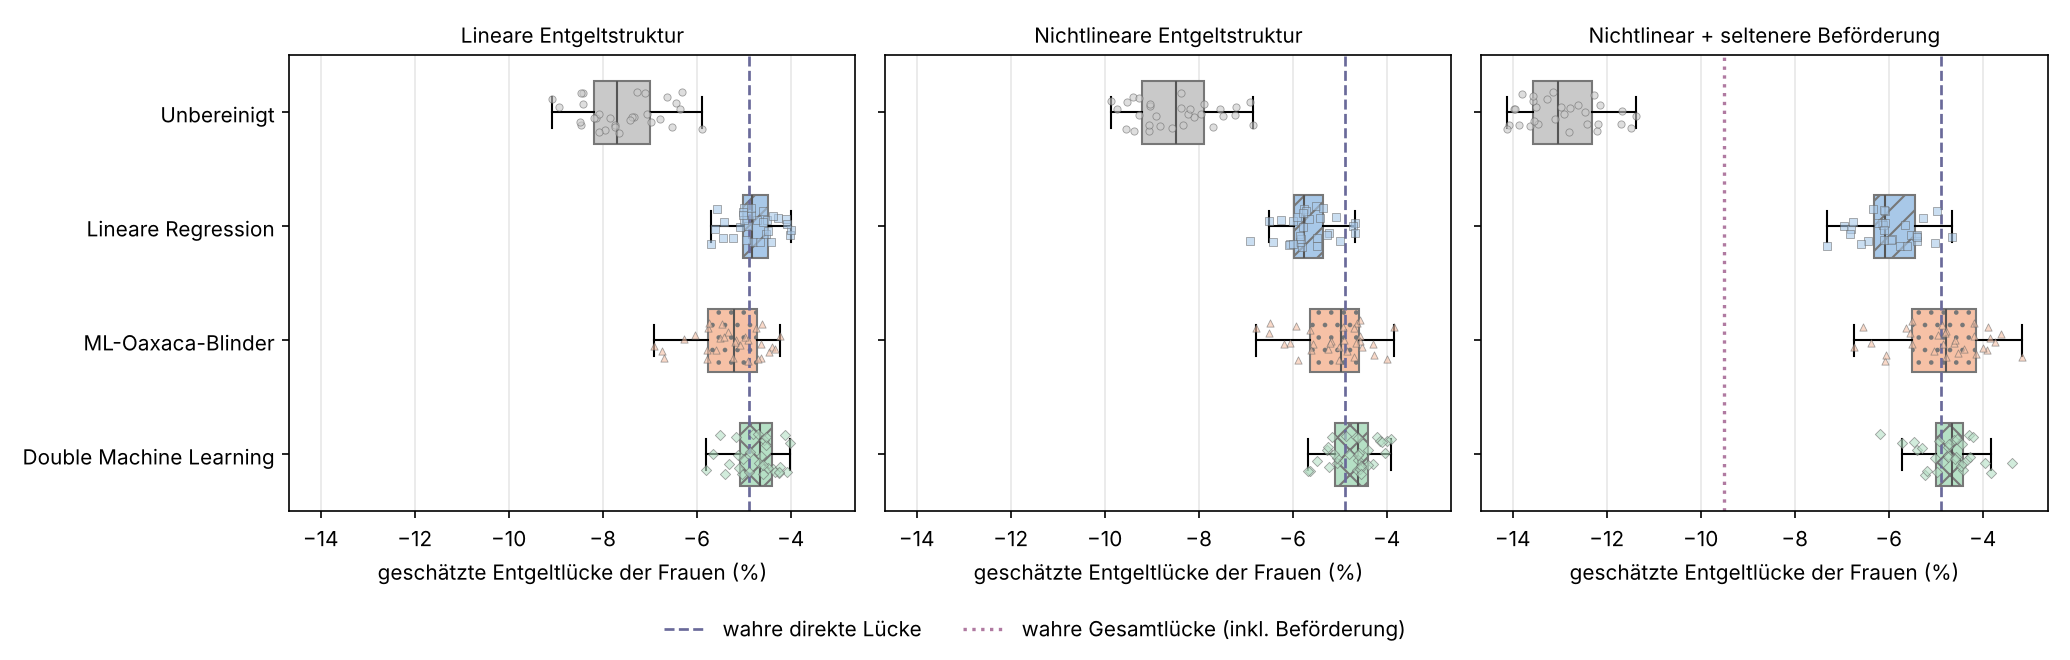
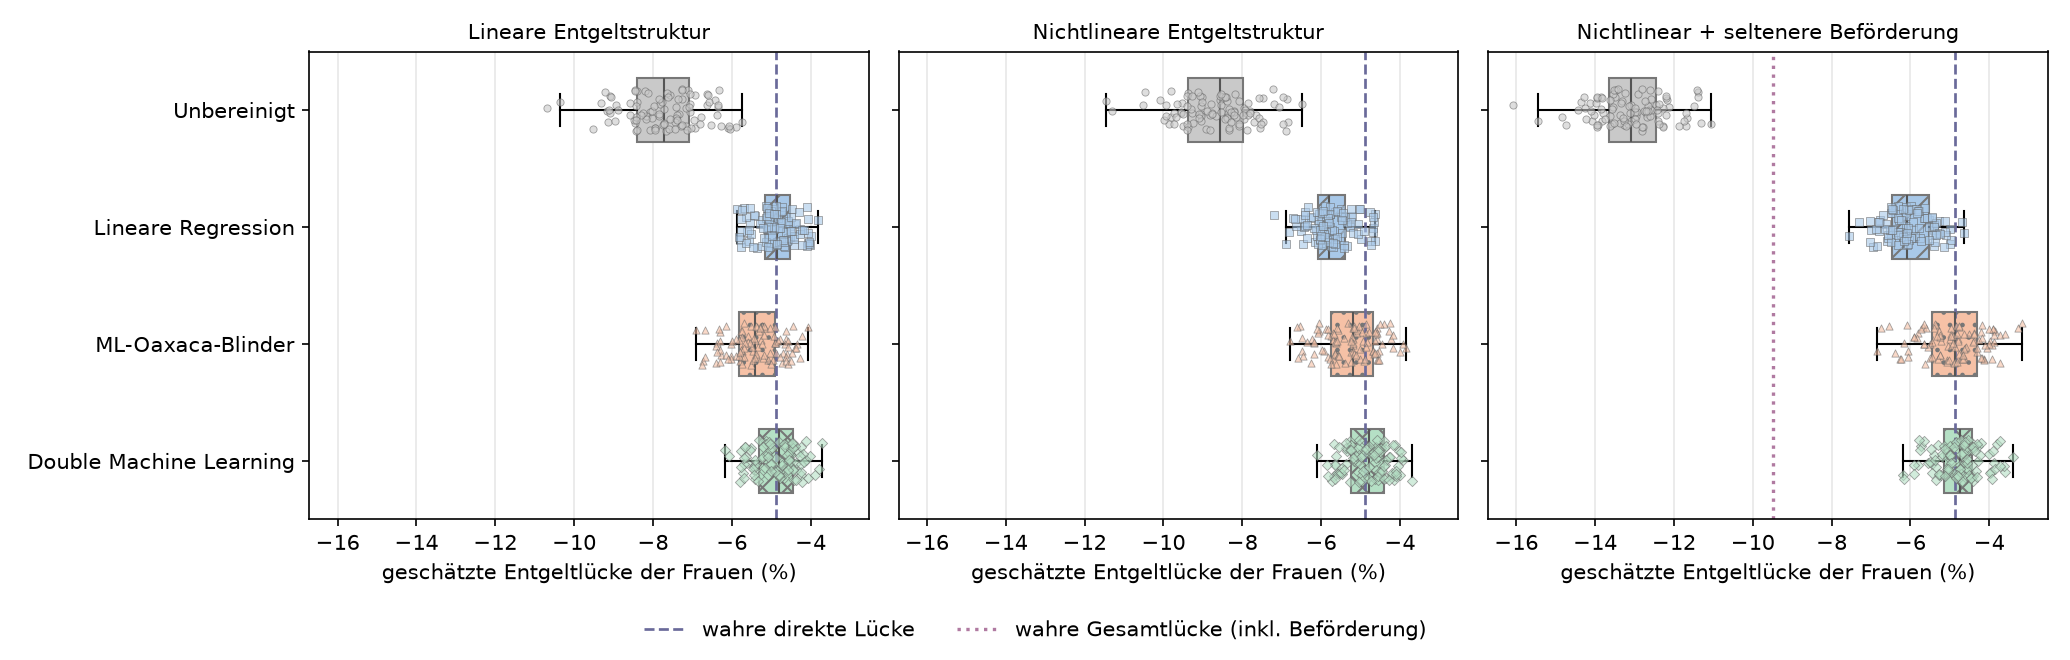
Zip-Plot der Konfidenzintervalle

diff --git a/src/paygap/plots.py b/src/paygap/plots.py
@@ -71,3 +71,61 @@ def plot_study(runs, path) -> None:
     fig.tight_layout(rect=(0, 0.08, 1, 1))
     fig.savefig(path, dpi=150)
     plt.close(fig)
+
+
+ZIP_COVERED = "#C5CCD6"      # Intervall enthaelt die wahre Luecke
+ZIP_MISSED = "#D9737A"       # Intervall verfehlt sie
+
+
+def plot_zip(runs, path, methods=("ols", "ml_ob", "dml")) -> None:
+    """Zip-Plot (Morris, White & Crowther 2019): alle 95-%-Intervalle je Methode und Szenario.
+
+    Die Intervalle sind von unten nach oben nach |Schaetzung - wahre Luecke| / Standardfehler
+    sortiert. Bei korrekter Abdeckung verfehlen nur die obersten 5 % die wahre Luecke.
+    Der Standardfehler wird aus der Intervallbreite zurueckgerechnet.
+    """
+    from matplotlib.lines import Line2D
+
+    scenarios = list(dict.fromkeys(runs["scenario"]))
+    methods = [m for m in methods if m in set(runs["method"])]
+    fig, axes = plt.subplots(len(methods), len(scenarios),
+                             figsize=(4.4 * len(scenarios), 3.3 * len(methods)),
+                             sharex=True, sharey=True, squeeze=False)
+    for j, s in enumerate(scenarios):
+        for i, m in enumerate(methods):
+            ax = axes[i, j]
+            d = runs[(runs["scenario"] == s) & (runs["method"] == m)]
+            se = (d["hi"] - d["lo"]) / (2 * 1.959963984540054)
+            order = np.argsort(np.abs((d["est"] - d["true_direct"]) / se).to_numpy(),
+                               kind="stable")
+            d = d.iloc[order]
+            y = 100 * (np.arange(len(d)) + 0.5) / len(d)
+            truth = d["true_direct"].to_numpy()
+            cov = ((d["lo"] <= truth) & (truth <= d["hi"])).to_numpy()
+            lo, hi, est = to_percent(d["lo"]), to_percent(d["hi"]), to_percent(d["est"])
+            ax.hlines(y[cov], lo[cov], hi[cov], color=ZIP_COVERED, lw=2.2)
+            ax.hlines(y[~cov], lo[~cov], hi[~cov], color=ZIP_MISSED, lw=2.2)
+            ax.scatter(est, y, s=6, color="#555555", marker=METHOD_STYLES[m]["marker"],
+                       zorder=3)
+            ax.axvline(to_percent(truth[0]), color="#6A6A9A", ls="--", lw=1.2)
+            ax.axhline(95, color="#888888", ls=":", lw=1.2)
+            ax.text(0.98, 0.04, f"Abdeckung {cov.mean():.0%}", transform=ax.transAxes,
+                    ha="right", fontsize=9, bbox={"fc": "white", "ec": "none", "alpha": 0.8})
+            ax.set_ylim(0, 100)
+            ax.grid(axis="x", alpha=0.3)
+            if i == 0:
+                ax.set_title(SCENARIO_LABELS.get(s, s), fontsize=10)
+            if j == 0:
+                ax.set_ylabel(f"{METHOD_LABELS[m]}\n\nRang nach |Abweichung| / SE (%)")
+            if i == len(methods) - 1:
+                ax.set_xlabel("95-%-Intervall der Entgeltlücke (%)")
+    handles = [
+        Line2D([], [], color=ZIP_COVERED, lw=2.2, label="Intervall enthält wahre Lücke"),
+        Line2D([], [], color=ZIP_MISSED, lw=2.2, label="Intervall verfehlt wahre Lücke"),
+        Line2D([], [], color="#6A6A9A", ls="--", label="wahre direkte Lücke"),
+        Line2D([], [], color="#888888", ls=":", label="95-%-Marke"),
+    ]
+    fig.legend(handles=handles, loc="lower center", ncol=4, frameon=False)
+    fig.tight_layout(rect=(0, 0.04, 1, 1))
+    fig.savefig(path, dpi=140)
+    plt.close(fig)

diff --git a/scripts/run_study.py b/scripts/run_study.py
@@ -12,7 +12,7 @@ import time
 from pathlib import Path
 
 from paygap.config import load_config
-from paygap.plots import METHOD_LABELS, plot_study, to_percent
+from paygap.plots import METHOD_LABELS, plot_study, plot_zip, to_percent
 from paygap.study import run_study, summarize
 
 
@@ -40,6 +40,7 @@ def main() -> None:
     runs.to_csv(out / "study_runs.csv", index=False)
     summary.to_csv(out / "study_summary.csv", index=False)
     plot_study(runs, out / "figures" / "study.png")
+    plot_zip(runs, out / "figures" / "zip_plot.png")
     (out / "run_info.json").write_text(json.dumps(
         {"config": cfg, "seconds": round(time.time() - t0)}, indent=2), encoding="utf-8")
 

diff --git a/tests/test_study.py b/tests/test_study.py
@@ -1,6 +1,6 @@
 import pandas as pd
 
-from paygap.plots import plot_study, to_percent
+from paygap.plots import plot_study, plot_zip, to_percent
 from paygap.study import run_study, summarize
 
 
@@ -23,6 +23,8 @@ def test_small_study_and_plot(tmp_path):
     assert set(summarize(runs)["method"]) == {"raw", "ols", "ml_ob", "dml"}
     plot_study(runs, tmp_path / "study.png")
     assert (tmp_path / "study.png").stat().st_size > 0
+    plot_zip(runs, tmp_path / "zip.png")
+    assert (tmp_path / "zip.png").stat().st_size > 0
 
 
 def test_to_percent():

diff --git a/README.md b/README.md
@@ -16,29 +16,56 @@ Methode danebenliegt.
 ## Kernergebnis
 
 Bei nichtlinearer Entgeltstruktur überschätzt die übliche lineare Regression die Lücke um knapp
-einen Prozentpunkt, und ihr 95-%-Intervall enthält den wahren Wert nur in 80 % der Fälle.
-**Double Machine Learning trifft die Lücke in allen Szenarien bis auf 0,2 Prozentpunkte** und hält
-die nominelle Intervallabdeckung ein. Keine Methode erkennt aber Benachteiligung, die über die
+einen Prozentpunkt, und ihr 95-%-Intervall enthält den wahren Wert nur in 72 % der Fälle.
+**Double Machine Learning trifft die Lücke in allen Szenarien bis auf 0,1 Prozentpunkte** und hält
+die nominelle Intervallabdeckung von 95 % ein. Keine Methode erkennt aber Benachteiligung, die über die
 herausgerechneten Merkmale selbst wirkt (hier: seltenere Beförderung).
 
 ![Simulationsstudie](docs/figures/study.png)
 
+*Jeder Punkt ist die Schätzung aus einem simulierten Datensatz. Die Box umfasst die mittleren 50 %
+der Schätzungen, der Strich darin ist der Median, die Fehlerbalken reichen bis zur äußersten
+Schätzung innerhalb des 1,5-Fachen der Boxbreite. Die Abbildung zeigt Verzerrung und Streuung,
+nicht die Konfidenzintervalle.*
+
 | Szenario | Methode | Schätzung | Verzerrung | Abdeckung 95-%-Intervall |
 |---|---|---:|---:|---:|
-| linear | Lineare Regression | −4,8 % | +0,1 pp | 100 % |
-| | ML-Oaxaca-Blinder | −5,3 % | −0,4 pp | 63 % |
-| | Double Machine Learning | −4,8 % | +0,1 pp | 100 % |
-| nichtlinear | Lineare Regression | −5,7 % | −0,8 pp | 80 % |
-| | ML-Oaxaca-Blinder | −5,1 % | −0,3 pp | 60 % |
-| | Double Machine Learning | −4,7 % | +0,2 pp | 100 % |
-| + seltenere Beförderung | Lineare Regression | −6,0 % | −1,1 pp | 57 % |
-| | ML-Oaxaca-Blinder | −4,8 % | 0,0 pp | 40 % |
-| | Double Machine Learning | −4,7 % | +0,2 pp | 93 % |
+| linear | Lineare Regression | −4,9 % | 0,0 pp | 100 % |
+| | ML-Oaxaca-Blinder | −5,4 % | −0,5 pp | 56 % |
+| | Double Machine Learning | −4,9 % | 0,0 pp | 97 % |
+| nichtlinear | Lineare Regression | −5,8 % | −0,9 pp | 72 % |
+| | ML-Oaxaca-Blinder | −5,3 % | −0,4 pp | 53 % |
+| | Double Machine Learning | −4,8 % | 0,0 pp | 98 % |
+| + seltenere Beförderung | Lineare Regression | −6,0 % | −1,1 pp | 53 % |
+| | ML-Oaxaca-Blinder | −4,9 % | 0,0 pp | 54 % |
+| | Double Machine Learning | −4,8 % | +0,1 pp | 94 % |
 
 Wahre direkte Lücke −4,9 %; im dritten Szenario beträgt die Gesamtlücke einschließlich seltenerer
-Beförderung −9,6 %. Unbereinigt liegen die Werte bei −7,6 %, −8,5 % und −13,0 %. 3000 Beschäftigte
-je simuliertem Unternehmen, **30 Wiederholungen** je Szenario (vorläufig; die Abdeckungswerte sind
-daher auf etwa ±8 Prozentpunkte genau).
+Beförderung −9,5 %. Unbereinigt liegen die Werte bei −7,7 %, −8,7 % und −13,1 %. 3000 Beschäftigte
+je simuliertem Unternehmen, 100 Wiederholungen je Szenario; die Abdeckungswerte sind damit auf etwa
+±4 Prozentpunkte genau. Die RMSE von Double Machine Learning liegt in allen Szenarien bei
+0,6 Log-Punkten × 100, die der linearen Regression steigt von 0,5 auf 1,4.
+
+### Stimmen die Konfidenzintervalle?
+
+![Zip-Plot](docs/figures/zip_plot.png)
+
+*Zip-Plot (Morris, White & Crowther, 2019): jede Linie ist das 95-%-Intervall aus einem simulierten
+Datensatz, der Punkt die Schätzung. Von unten nach oben sind die Intervalle nach dem Abstand der
+Schätzung zur wahren Lücke sortiert, gemessen in Standardfehlern. Rot sind Intervalle, die die wahre
+Lücke verfehlen. Bei korrekten Intervallen liegt Rot nur oberhalb der 95-%-Marke, gleichmäßig auf
+beiden Seiten.*
+
+Die beiden schwächeren Methoden scheitern aus verschiedenen Gründen:
+
+- **Lineare Regression:** Bei nichtlinearer Entgeltstruktur sind alle Intervalle nach links
+  verschoben, und alle verfehlenden Intervalle liegen links der wahren Lücke. Die Intervallbreite
+  stimmt, die Schätzung ist verzerrt, weil die Modellannahme nicht passt.
+- **ML-Oaxaca-Blinder:** Rot beginnt schon bei etwa 55 %, weil die Intervalle etwa halb so breit
+  sind, wie die tatsächliche Streuung verlangt. In den ersten beiden Szenarien kommt eine leichte
+  Verschiebung nach links hinzu; im dritten liegt die Schätzung im Mittel richtig, und Rot verteilt
+  sich auf beide Seiten.
+- **Double Machine Learning:** Rot erscheint erst oberhalb der 95-%-Marke und auf beiden Seiten.
 
 ## Vorgehen
 
@@ -62,7 +89,7 @@ daher auf etwa ±8 Prozentpunkte genau).
    - **Double Machine Learning:** Zwei Gradient-Boosting-Modelle sagen Entgelt und Geschlecht aus
      den Merkmalen vorher (mit 5-fachem Cross-Fitting). Die Lücke ergibt sich aus der Regression der
      Restgrößen aufeinander und hat ein gültiges Konfidenzintervall, obwohl die Modelle flexibel sind
-     (Chernozhukov et al., 2018).
+     (Chernozhukov et al., 2018). Die Grundidee ist in [docs/methodik.md](docs/methodik.md) erklärt.
 3. **Simulationsstudie** (`paygap/study.py`): je Szenario viele unabhängige Datensätze; gemessen
    werden Verzerrung, RMSE und wie oft das 95-%-Intervall die wahre Lücke enthält.
 4. **Überlappungsdiagnose:** Das Geschlechtsmodell aus Double Machine Learning zeigt, wo es kaum
@@ -91,7 +118,6 @@ daher auf etwa ±8 Prozentpunkte genau).
   arbeiten, nicht wie groß die Lücke in einem echten Unternehmen ist.
 - Bisher wird nur eine Gesamtlücke geschätzt; die Richtlinie verlangt Auswertungen je Gruppe
   gleichwertiger Arbeit.
-- Vorläufig 30 Wiederholungen je Szenario.
 
 ## Ausführen
 
@@ -115,10 +141,11 @@ configs/default.yaml     Studienparameter und Modellparameter
 src/paygap/generate.py   synthetische Personaldaten mit bekannter Lücke
 src/paygap/methods.py    Schätzer: unbereinigt, OLS, ML-Oaxaca-Blinder, Double ML
 src/paygap/study.py      Simulationsstudie und Kennzahlen
-src/paygap/plots.py      Abbildung
+src/paygap/plots.py      Abbildungen (Verteilung der Schätzungen, Zip-Plot)
 scripts/                 analyze.py (ein Datensatz), run_study.py (Studie)
 tests/                   pytest
-docs/                    Abbildung und Kennzahlen des letzten Studienlaufs
+docs/methodik.md         wahre Lücke und Grundidee von Double Machine Learning
+docs/figures, results    Abbildung und Kennzahlen des letzten Studienlaufs
 ```
 
 ## Nächste Schritte

diff --git a/docs/methodik.md b/docs/methodik.md
@@ -11,7 +11,7 @@ hier ist er bekannt, und deshalb lässt sich messen, wie weit jede Methode daneb
 Im Szenario mit seltenerer Beförderung gibt es zusätzlich die **Gesamtlücke**: Für jede Frau wird
 berechnet, was sie verdienen würde, wenn sie in allem wie ein Mann behandelt würde, also auch die
 Entgeltstufe erreicht hätte, die ein Mann mit ihrer Qualifikation erreicht. Der Mittelwert dieser
-Differenzen ist die Gesamtlücke (≈ −9,6 %). Weil die Methoden die Entgeltstufe als Merkmal
+Differenzen ist die Gesamtlücke (≈ −9,5 %). Weil die Methoden die Entgeltstufe als Merkmal
 herausrechnen, können sie nur die direkte Lücke sehen.
 
 ## Grundidee von Double Machine Learning
